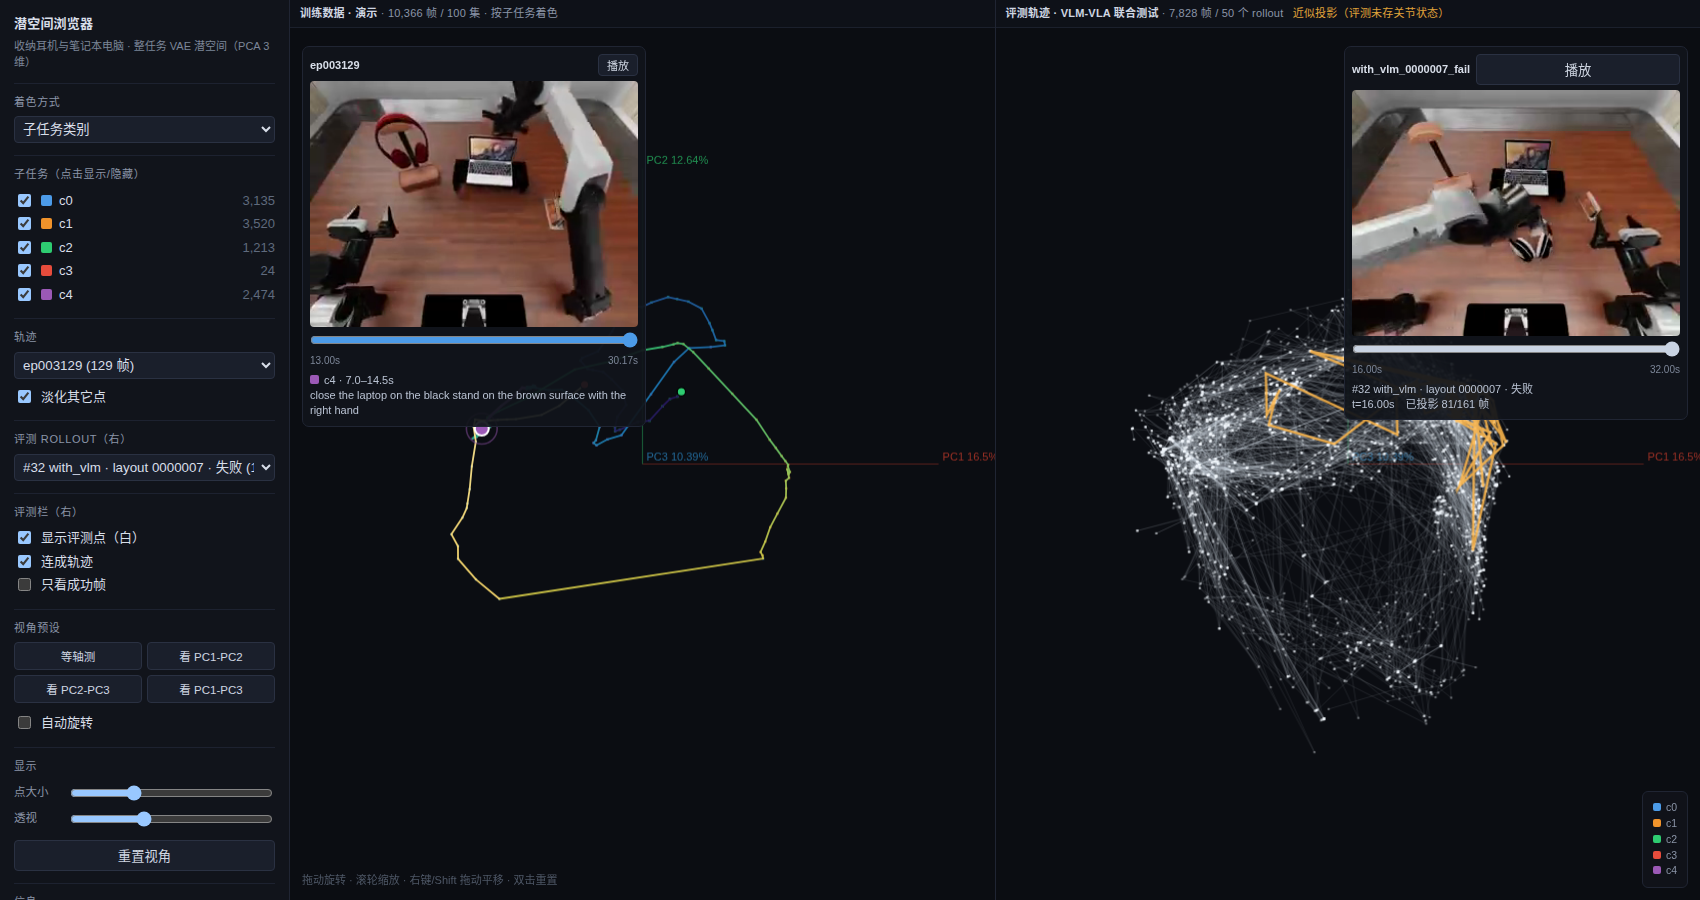
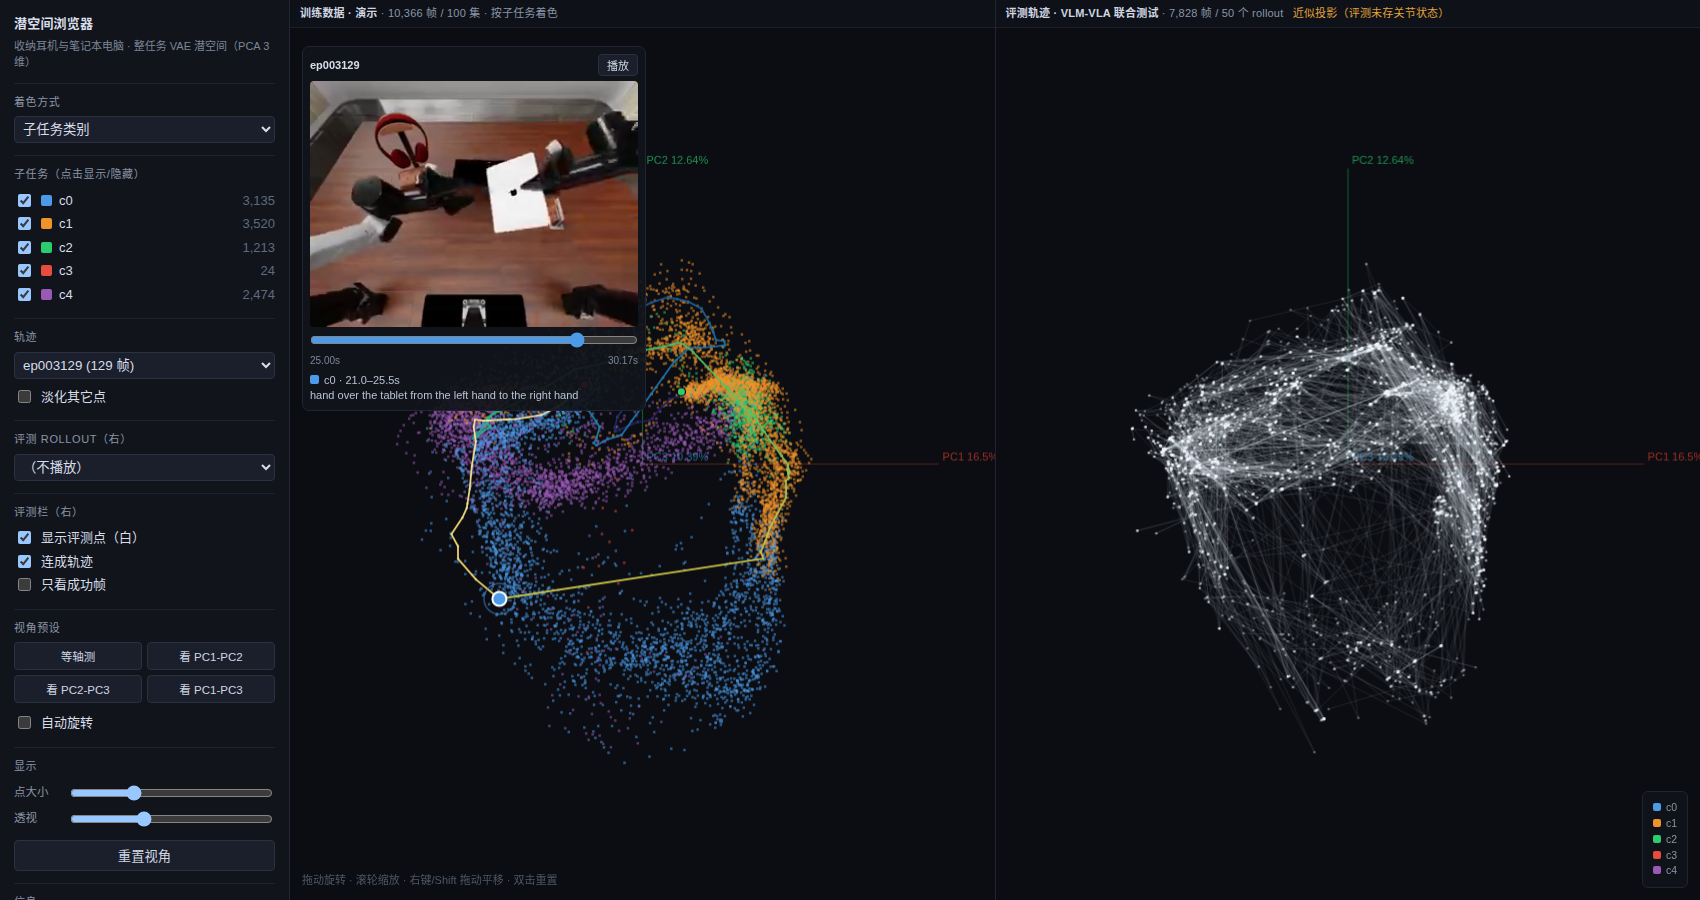
修进度条：range 的 max 是 100 而 JS 按 0–1000 赋值，导致视频播到 10% 时滑块就到底
- 两个进度条（训练栏 vseek / 评测栏 vseekB）的 max 从 100 改为 1000、step 改为 1，
  与 syncSeek 里的 (currentTime / duration) * 1000 一致
- 验证：ep003129 长 30.17s，拖到 25.0s 时滑块在 ~83%，字幕同步到对应段落

Changed region(s): [[0.1559, 0.0933, 0.4988, 0.8089], [0.7482, 0.0311, 0.9976, 0.5911], [0.0, 0.4978, 0.1559, 0.5289]]

diff --git a/docs/assets/latent_explorer.html b/docs/assets/latent_explorer.html
@@ -147,14 +147,14 @@
     <div id="vid">
       <div id="vhead"><b id="vtitle">—</b><button id="vbtn">暂停</button></div>
       <video id="v" muted loop playsinline preload="auto"></video>
-      <input type="range" id="vseek" min="0" max="100" step="0.1" value="0">
+      <input type="range" id="vseek" min="0" max="1000" step="1" value="0">
       <div id="vtime"></div>
       <div id="vcap"></div>
     </div>
     <div id="vidB">
       <div id="vheadB"><b id="vtitleB">—</b><button id="vbtnB">暂停</button></div>
       <video id="vB" muted loop playsinline preload="auto"></video>
-      <input type="range" id="vseekB" min="0" max="100" step="0.1" value="0">
+      <input type="range" id="vseekB" min="0" max="1000" step="1" value="0">
       <div id="vtimeB"></div>
       <div id="vcapB"></div>
     </div>

diff --git a/scripts/explorer_template.html b/scripts/explorer_template.html
@@ -147,14 +147,14 @@
     <div id="vid">
       <div id="vhead"><b id="vtitle">—</b><button id="vbtn">暂停</button></div>
       <video id="v" muted loop playsinline preload="auto"></video>
-      <input type="range" id="vseek" min="0" max="100" step="0.1" value="0">
+      <input type="range" id="vseek" min="0" max="1000" step="1" value="0">
       <div id="vtime"></div>
       <div id="vcap"></div>
     </div>
     <div id="vidB">
       <div id="vheadB"><b id="vtitleB">—</b><button id="vbtnB">暂停</button></div>
       <video id="vB" muted loop playsinline preload="auto"></video>
-      <input type="range" id="vseekB" min="0" max="100" step="0.1" value="0">
+      <input type="range" id="vseekB" min="0" max="1000" step="1" value="0">
       <div id="vtimeB"></div>
       <div id="vcapB"></div>
     </div>
